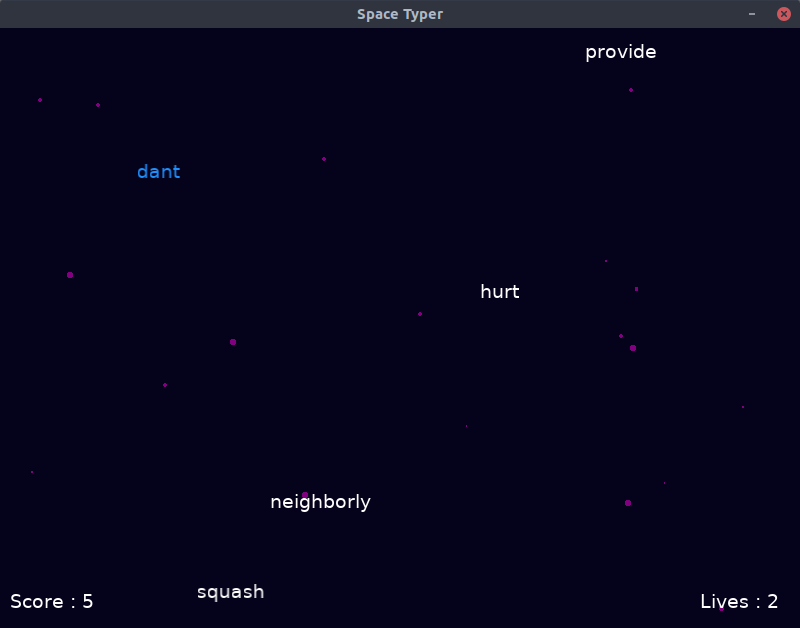
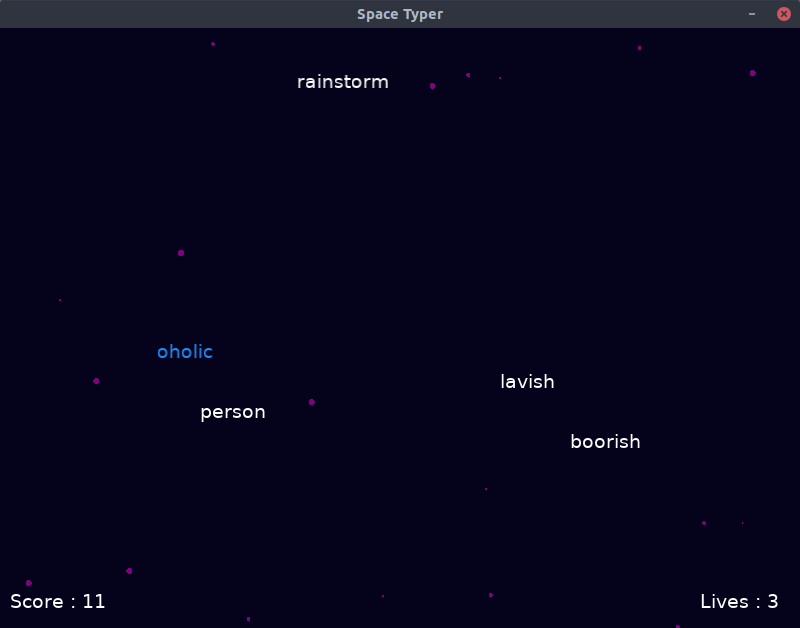
Improved README with instructions, updated screenshot

diff --git a/README.md b/README.md
@@ -1,4 +1,16 @@
 # Space Typer
 Space Typer is a typing game written in Python using the [Arcade](http://arcade.academy/) library.
 
+## How to play
+You can play the game by downloading the stand-alone binary version, which can be found in the releases.
+
+Alternatively, you can install all of the dependencies, then run the python script yourself:
+```
+pip install --user -r requirements.txt && python space-typer.py
+```
+Using pipenv :
+```
+pipenv run python space-typer.py
+```
+
 ![screenshot](screenshot.png "Screenshot")
